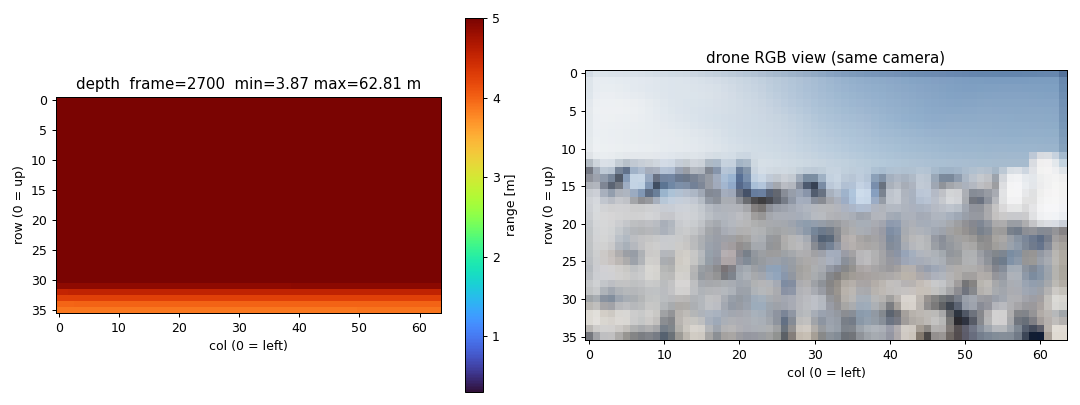
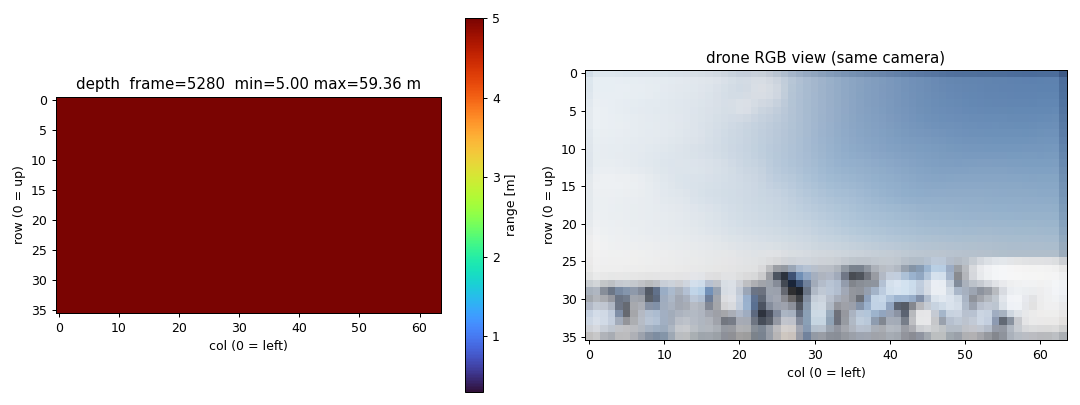
cleaned up sim camera vs diffaero training parameter responsibilities

diff --git a/starling-deployment/wrapper/diffaero_core.py b/starling-deployment/wrapper/diffaero_core.py
@@ -4,7 +4,7 @@ from scipy.spatial.transform import Rotation
 from pathlib import Path
 import torch
 
-from wrapper.perception_builder import PerceptionBuilder, Intrinsics
+from wrapper.perception_builder import PerceptionBuilder, Intrinsics, PerceptionGrid
 
 @dataclass
 class DiffAeroObs:
@@ -17,11 +17,10 @@ class DiffAeroObs:
 @dataclass
 class DiffAeroCmd:
     attitude_ned_frd_wxyz: np.ndarray  # PX4-ready
-    attitude_enu_flu_xyzw: np.ndarray  # debug / sim
-    thrust_norm: float                 # [0,1], anchored to hover_thrust
-    acc_cmd_enu: np.ndarray            # debug
+    attitude_enu_flu_xyzw: np.ndarray  # debug
+    thrust_norm: float # [0,1], anchored to hover_thrust
+    acc_cmd_enu: np.ndarray # debug
     acc_norm: float
-   
 
 class DiffAeroPolicy:
     # Fixed frame-conversion rotations (constructed once at class definition).
@@ -29,21 +28,31 @@ class DiffAeroPolicy:
     _rot_ENU_to_NED = Rotation.from_quat([0.70711, 0.70711, 0.0, 0.0])
     # FLU body → FRD body (+π around X).
     _rot_FLU_to_FRD = Rotation.from_quat([1.0, 0.0, 0.0, 0.0])
-
+    
     def __init__(
         self,
         intrinsics: Intrinsics,
         checkpoint_path: str,
+        grid: PerceptionGrid = PerceptionGrid(),
         vel_ema_factor: float = 0.1,
         max_acc_xy: float = 20.0,
         max_acc_z: float = 40.0,
-        max_vel: float = 5.0,
         max_accel: float = 30.0,
-        cam_max_dist: float = 5.0,
-        depth_h: int = 9,
-        depth_w: int = 16,
-        
+        max_vel: float = 5.0,
     ):
+        """
+        Initialize the class
+        
+        Args:
+            intrinsics: intrinsics of the camera of the simulator
+            grid: camera settings used during training (static across diff sims)
+            vel_ema_factor: velocity exp. moving average factor
+            max_acc_xy: maximum acceleration in m/s/s in xy direction of policy output
+            max_acc_z: maximum acceleration in m/s/s in z direction of policy output
+            max_accel: maximum acceleration of full throttle on the specific vehicle
+            max_vel: maximum velocity of the vehicle in m/s
+        """
+        
         self.device = torch.device("cuda" if torch.cuda.is_available() else "cpu")
 
         pt2_path = self._resolve_pt2(checkpoint_path)
@@ -60,11 +69,10 @@ class DiffAeroPolicy:
 
         self.vel_ema_factor = vel_ema_factor
         self.vel_ema: torch.Tensor | None = None
-        self.max_vel = max_vel
+        self.max_vel_t = torch.tensor(max_vel, dtype=torch.float32, device=self.device)
         self.max_accel = max_accel
 
-        self.cam_max_dist = cam_max_dist
-        self.perception_builder = PerceptionBuilder(intrinsics, out_h=depth_h, out_w=depth_w, target_fov_deg=86.0, max_dist=cam_max_dist)
+        self.perception_builder = PerceptionBuilder(intrinsics, grid=grid)
         self._up = torch.tensor([0.0, 0.0, 1.0], dtype=torch.float32, device=self.device)
 
     def reset(self) -> None:
@@ -91,7 +99,7 @@ class DiffAeroPolicy:
         v_local = Rz.t() @ v_world                     # (3,)
         state9 = torch.cat([target_vel_local, uz, v_local]).unsqueeze(0)  # (1, 9)
 
-        # Update velocity EMA; used by the actor to derive commanded yaw.
+        # Update velocity EMA: used by the actor to derive commanded yaw.
         if self.vel_ema is None:
             self.vel_ema = v_world.clone()
         else:
@@ -111,6 +119,7 @@ class DiffAeroPolicy:
                 dtype=torch.float32, device=self.device,
             )
 
+        # Get policy outputs
         acc_cmd, quat_cmd, acc_norm = self.module(
             (state9, perception_t),
             orientation,
@@ -118,10 +127,12 @@ class DiffAeroPolicy:
             self.min_action,
             self.max_action,
         )
-
+        
+        acc_norm = float(acc_norm.reshape(-1)[0].cpu())
+        # Convert to PX4 commands (frame conversion to NED/FRD)
         q_des, thrust_norm = self._to_attitude_setpoint(
             quat_cmd.squeeze(0).cpu().numpy(),
-            float(acc_norm.reshape(-1)[0].cpu()),
+            acc_norm,
         )
         
         return DiffAeroCmd(
@@ -129,12 +140,9 @@ class DiffAeroPolicy:
             attitude_enu_flu_xyzw=quat_cmd.squeeze(0).cpu().numpy(),
             thrust_norm=thrust_norm,
             acc_cmd_enu=acc_cmd.squeeze(0).cpu().numpy(),
-            acc_norm=float(acc_norm.reshape(-1)[0].cpu()),
+            acc_norm=acc_norm,
         )
             
-        
-
-
     def _build_yaw_frame(self, R: torch.Tensor) -> torch.Tensor:
         """Build the yaw-only rotation matrix Rz from the full attitude R.
 
@@ -178,8 +186,7 @@ class DiffAeroPolicy:
             - torch.tensor(position, dtype=torch.float32, device=self.device)
         )
         dist = rel.norm()
-        mv = torch.tensor(float(self.max_vel), device=self.device)
-        denom = torch.maximum(dist / mv, torch.ones((), device=self.device))
+        denom = torch.maximum(dist / self.max_vel_t, torch.ones((), device=self.device))
         return rel / denom
 
     def _to_attitude_setpoint(
@@ -187,23 +194,13 @@ class DiffAeroPolicy:
     ) -> tuple[np.ndarray, float]:
         """Convert DiffAero actor output to PX4 attitude + thrust.
 
-        Performs two conversions:
-        1. **Frame**: ENU/FLU quaternion (xyzw, scipy convention) →
-           NED/FRD quaternion (wxyz, MAVLink convention) via the fixed
-           ENU→NED and FLU→FRD rotations.
-        2. **Thrust**: ``acc_norm`` [m/s²] → normalized throttle [0, 1]
-           by dividing by ``max_accel``, so hover (≈ g) maps to
-           ``MPC_THR_HOVER = g / max_accel``.
-
+        Performs two conversions: ENU/FLU to NED/FRD and finds normalized throttle
         Args:
-            quat_xyzw_enu_flu: Desired attitude quaternion in ENU/FLU,
-                               xyzw order (scipy convention), shape (4,).
+            quat_xyzw_enu_flu: Desired attitude quaternion in ENU/FLU
             acc_norm:          Thrust-acceleration magnitude [m/s²] the
-                               rotors must produce (gravity not included;
-                               point-mass model handles gravity separately).
-
+                               rotors must produce (gravity not included).
         Returns:
-            q_des:       Desired quaternion in NED/FRD, wxyz order, shape (4,).
+            q_des: Desired quaternion in NED/FRD, wxyz order.
             thrust_norm: Normalized thrust in [0, 1].
         """
         R_des_enu = Rotation.from_quat(quat_xyzw_enu_flu).as_matrix()
@@ -214,16 +211,11 @@ class DiffAeroPolicy:
     @staticmethod
     def _quat_ENU_FLU_to_NED_FRD(R_enu_flu: np.ndarray) -> np.ndarray:
         """Convert an ENU/FLU rotation matrix to a NED/FRD quaternion.
-
-        Applies the fixed frame change:
-        ``R_ned_frd = R_ENU_to_NED @ R_enu_flu @ R_FLU_to_FRD``
-        and returns the result in MAVLink wxyz order.
-
         Args:
-            R_enu_flu: Rotation matrix in ENU/FLU convention, shape (3, 3).
+            R_enu_flu: Rotation matrix in ENU/FLU convention.
 
         Returns:
-            Quaternion [w, x, y, z] in NED/FRD convention, shape (4,).
+            Quaternion [w, x, y, z] in NED/FRD convention.
         """
         rot = (
             DiffAeroPolicy._rot_ENU_to_NED

diff --git a/starling-deployment/wrapper/perception_builder.py b/starling-deployment/wrapper/perception_builder.py
@@ -1,16 +1,25 @@
 from dataclasses import dataclass
 import numpy as np
 
+
 @dataclass
 class Intrinsics:
+    """Intrinsices of the sim/real camera (resolution that produces raw depth image)"""
     fx: float
     fy: float
     cx: float
     cy: float
-    H: int
-    W: int
+    H: int # native render height
+    W: int # native render width
 
-
+@dataclass
+class PerceptionGrid:
+    """DiffAero's fixed grid set by the camera (static across different sims)"""
+    H: int = 9
+    W: int = 16
+    max_dist: float = 5.0
+    fov_deg: float = 86.0
+    
 class PerceptionBuilder:
     """
     Converts a native-resolution planar depth image into the 9x16 encoded
@@ -24,33 +33,28 @@ class PerceptionBuilder:
     def __init__(
         self,
         intrinsics: Intrinsics,
-        out_h: int = 9,
-        out_w: int = 16,
-        target_fov_deg: float = 86.0,
-        max_dist: float = 5.0,
+        grid: PerceptionGrid = PerceptionGrid(),
         flip_lr: bool = False,
         flip_ud: bool = False,
     ):
-        self.out_h = out_h
-        self.out_w = out_w
-        self.max_dist = max_dist
+        self.grid = grid
         self.flip_lr = flip_lr
         self.flip_ud = flip_ud
 
-        self._crop = _compute_crop(intrinsics, target_fov_deg) # Used later to crop to DiffAero's training FOV
+        self._crop = _compute_crop(intrinsics, self.grid.fov_deg) # Used later to crop to DiffAero's training FOV
         self._euclid_scale = _compute_euclid_scale(intrinsics, self._crop) # Used later to convert planar depth to Euclidean distance
         # Used later to compute the min-pool edges (resizing to 9x16 DiffAero perception grid)
         self._row_edges, self._col_edges = _compute_pool_edges(
-            crop=self._crop, out_h=out_h, out_w=out_w
+            crop=self._crop, out_h=self.grid.H, out_w=self.grid.W
         )
 
     def __call__(self, planar_native: np.ndarray) -> np.ndarray:
-        planar = _clean(planar_native, self.max_dist) # Replace NaN, inf, and zero-or-negative pixels with max_dist (= no obstacle)
+        planar = _clean(planar_native, self.grid.max_dist) # Replace NaN, inf, and zero-or-negative pixels with max_dist (= no obstacle)
         planar = _apply_crop(planar, self._crop) # Slice the native image to the training FOV region
         euclid = _planar_to_euclidean(planar, self._euclid_scale) # Element-wise: true_range = planar_Z * ray_scale
-        pooled = _min_pool(euclid, self._row_edges, self._col_edges, self.out_h, self.out_w) # Reduce (crop_H, crop_W) -> (out_h, out_w) by taking the minimum range in each angular bin. Min = nearest obstacle surface per cell.
+        pooled = _min_pool(euclid, self._row_edges, self._col_edges, self.grid.H, self.grid.W) # Reduce (crop_H, crop_W) -> (out_h, out_w) by taking the minimum range in each angular bin. Min = nearest obstacle surface per cell.
         pooled = _maybe_flip(pooled, self.flip_lr, self.flip_ud) # Flip the pooled image left-right and up-down if desired (for different simulation conventions)
-        return _encode(pooled, self.max_dist) # 1 = surface at lens, 0 = nothing within max_dist
+        return _encode(pooled, self.grid.max_dist) # 1 = surface at lens, 0 = nothing within max_dist
 
 def _compute_crop(intr: Intrinsics, fov_deg: float) -> tuple[int, int, int, int]:
     """
